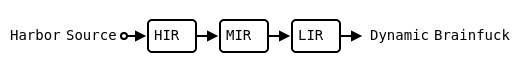
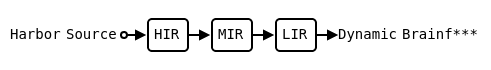
Changed style of gif

Changed region(s): [[0.0, 0.2571, 0.9776, 0.7429]]

diff --git a/src/mir.rs b/src/mir.rs
@@ -700,7 +700,6 @@ impl Op {
                 TMP2.zero(program);
                 TMP3.zero(program);
 
-
                 x.begin_loop(program);
                 TMP0.inc(program);
                 x.dec(program);

diff --git a/README.md b/README.md
@@ -53,6 +53,48 @@ Harbor is a high level programming language with type checking (supports unsigne
 
 Brainfuck programs are composed entirely of the following operators *only*:
 
+<div align="center">
+  <img alt="MIR" src="./assets/interpreter.gif" align="right" style="width: 48%"/>
+  <table style="width: 48%">
+    <tr>
+      <th>Operator</th>
+      <th>Description</th>
+    </tr>
+    <tr>
+      <td>&lt;</td>
+      <td>Move the pointer one cell to the left.</td>
+    </tr>
+    <tr>
+      <td>&gt;</td>
+      <td>Move the pointer one cell to the right.</td>
+    </tr>
+    <tr>
+      <td>+</td>
+      <td>Increment the current cell by 1.</td>
+    </tr>
+    <tr>
+      <td>-</td>
+      <td>Decrement the current cell by 1.</td>
+    </tr>
+    <tr>
+      <td>[</td>
+      <td>Begin a loop while the cell at the pointer is not zero.</td>
+    </tr>
+    <tr>
+      <td>]</td>
+      <td>Mark the ending of a loop body.</td>
+    </tr>
+    <tr>
+      <td>,</td>
+      <td>Make the current cell equal to the next byte of input.</td>
+    </tr>
+    <tr>
+      <td>.</td>
+      <td>Output the current cell as a byte.</td>
+    </tr>
+  </table>
+</div>
+<!-- 
 |Operator|Description|
 |-|-|
 |<|Move the pointer one cell to the left.|
@@ -62,9 +104,9 @@ Brainfuck programs are composed entirely of the following operators *only*:
 |[|Begin a loop while the cell at the pointer is not zero.|
 |]|Mark the ending of a loop body.|
 |,|Make the current cell equal to the next byte of input.|
-|.|Output the current cell as a byte.|
+|.|Output the current cell as a byte.| -->
 
-Dynamic Brainf*** provides six additional operators: two for memory management, two for pointer manipulation, and two for better IO. With these new operators, it's significantly simpler to compile common abstractions like pointers, stack operations, and compound datatypes.
+Dynamic Brainf*** provides six additional operators: two for memory management, two for pointer manipulation, and two for better IO. With these new operators, it's possible to compile common abstractions like references, stack operations, and compound datatypes.
 
 |Operator|Description|
 |-|-|
@@ -72,8 +114,8 @@ Dynamic Brainf*** provides six additional operators: two for memory management, 
 |!|Read the value of the current cell, and free the allocated cells starting at that index.|
 |*|Push the pointer to a stack, and set the pointer equal to the value of the current cell.|
 |&|Pop the old pointer off the dereference stack, and set the pointer equal to it.|
-|#|Make the current cell equal to the next integer in the input buffer.|
-|$|Output the current cell as an integer.|
+|#|Make the current cell equal to the next integer in the input buffer (like `scanf("%d", &tape[pointer])`).|
+|$|Output the current cell as an integer (like `printf("%d", tape[pointer])`).|
 
 ## How does it work?
 
@@ -81,9 +123,63 @@ Harbor source code goes through three stages before the output code: HIR, MIR, a
 
 ![Flow](./assets/flow.svg)
 
-HIR provides a typesystem and performs typechecking, MIR provides a small untyped reverse-polish-notation assembly language, and LIR is an internal representation of Dynamic Brainfuck specially structured to optimize generated code.
+HIR provides a typesystem and performs typechecking, MIR provides a small untyped reverse-polish-notation assembly language, and LIR is an internal representation of Dynamic Brainf\*\*\* specially structured to optimize generated code.
 
 The most interesting part of the compilation process is the transition from Harbor MIR to Dynamic Brainfuck. Harbor MIR looks like this:
 
-<img alt="MIR" src="./assets/fib_mir.png" style="width: 50%"/>
+<img alt="MIR" src="./assets/fib_mir.png" style="width: 49%"/>
 
+### Memory Layout
+
+MIR provides 14 registers:
+- `SP`: the stack pointer.
+- `FP`: the frame pointer.
+- `TMP0` through `TMP5`: 6 temporary registers for helping with arithmetic operations. These are for the compiler only.
+- `R0` through `R5`: 6 general purpose registers for the user.
+
+The registers are statically allocated by the compiler at the first 14 cells, with the stack beginning immediately after.
+
+![Registers](./assets/registers.svg)
+
+You might notice that `FP` strangely comes after `TMP0` and `TMP1`, but before `TMP2`. There's a good reason for this: copying memory cells in Brainf*** dialects is a *very expensive* (and very frequent) operation. When memory is copied, it uses `TMP0` as a buffer for the assignment code:
+
+![Copy Cell](./assets/copy_cell.png)
+
+So, `TMP0` is placed before `FP` to increase locality, but I'm sure the effect is negligible. `TMP1` is also placed before `FP` for similar reasons: it's used frequently in almost all alrithmetic operations. `TMP2` through `TMP5` are more specialized registers, mainly used for integer division, multiplication, and setting up stack frames and activation records for functions.
+
+### MIR Opcodes
+
+|Opcode|Description|
+|-|-|
+|`set 123`|Pops an address and stores a value at that address|
+|`=`|Pops an address and pops a value into that address. Also takes an optional size parameter for the number of cells store at the address like: `%int`, `%(%int, %bool)`, or `%char`.|
+|`@`|Pops an address and loads a value from that address. Also takes an optional size parameter to load from the address like: `%int`, `%(%int, %int)`, or `%char`.|
+|`get %int`|Pushes a block of memory on the stack with the given size. `%int` allocates one cell, `%(%int, %int)` allocates 2, etc.|
+|`dump %int`|Deallocates a block of memory on the stack with the given size.|
+|`123`|Integer literals are pushed to the stack.|
+|`+`|Pop two numbers off the stack and push their result.|
+|`-`|Pop two numbers off the stack and push their difference.|
+|`*`|Pop two numbers off the stack and push their product.|
+|`/`|Pop two numbers off the stack and push their quotient.|
+|`==`|Pop two numbers off the stack and push their equality.|
+|`!=`|Pop two numbers off the stack and push their inequality.|
+|`\|`|Pop two numbers off the stack and push their logical or (anything not zero is true).|
+|`&`|Pop two numbers off the stack and push their logical and.|
+|`!`|Pop a number off the stack and push its logical complement.|
+|`alloc`|Pop a number off the stack, allocate that many cells at the end of the tape, and push the address of the allocated block.|
+|`free`|Pop an address off the stack and free the cells at that block.|
+|`dup`|Duplicate the top cell on the stack.|
+|`frame %int -> %(%int, %int) do ... end`|Create a stack frame for a code block that takes an argument and returns a value. The FP points at the first argument, and the return value is left on the stack when the code block ends after the frame is destructed.|
+|`if (2 4 *) do ... end`|Perform an if statement. Else clauses are not supported.|
+|`$R0`, `$R1`, ..., `$R5`|Push a register's value onto the stack.|
+|`&R0`, `&R1`, ..., `&R5`|Push a register's address onto the stack.|
+
+There are also 6 predefined macros for MIR. `putnum` and `putchar` both pop a cell off the stack and print it. `getchar` retrieves a byte of user input and pushes it onto the stack. `getnum` retrieves an integer from user input and pushes it as well. Finally, `inc` and `dec` increment or decrement the value pointed to by the top value on the stack.
+
+MIR opcodes are composed of a sort of "microcode" that's really interesting and fun to write/optimize. The code generator for the addition opcode illustrates this pretty well:
+
+![Addition](./assets/addition.png)
+
+Originally, I implemented addition by popping the two values into temporary registers (`TMP1` and `TMP2`), performing the addition, and then pushing the result onto the stack. This solution is much more efficient, as everything is done in place instead of moving values around in memory!
+
+It's also extremely satisfying to see the result of the optimizations on the output code as well: because everything implemented in brainfuck seems to be on the order of O(n^2), any reduction in memory usage seems to have a dramatic effect.
